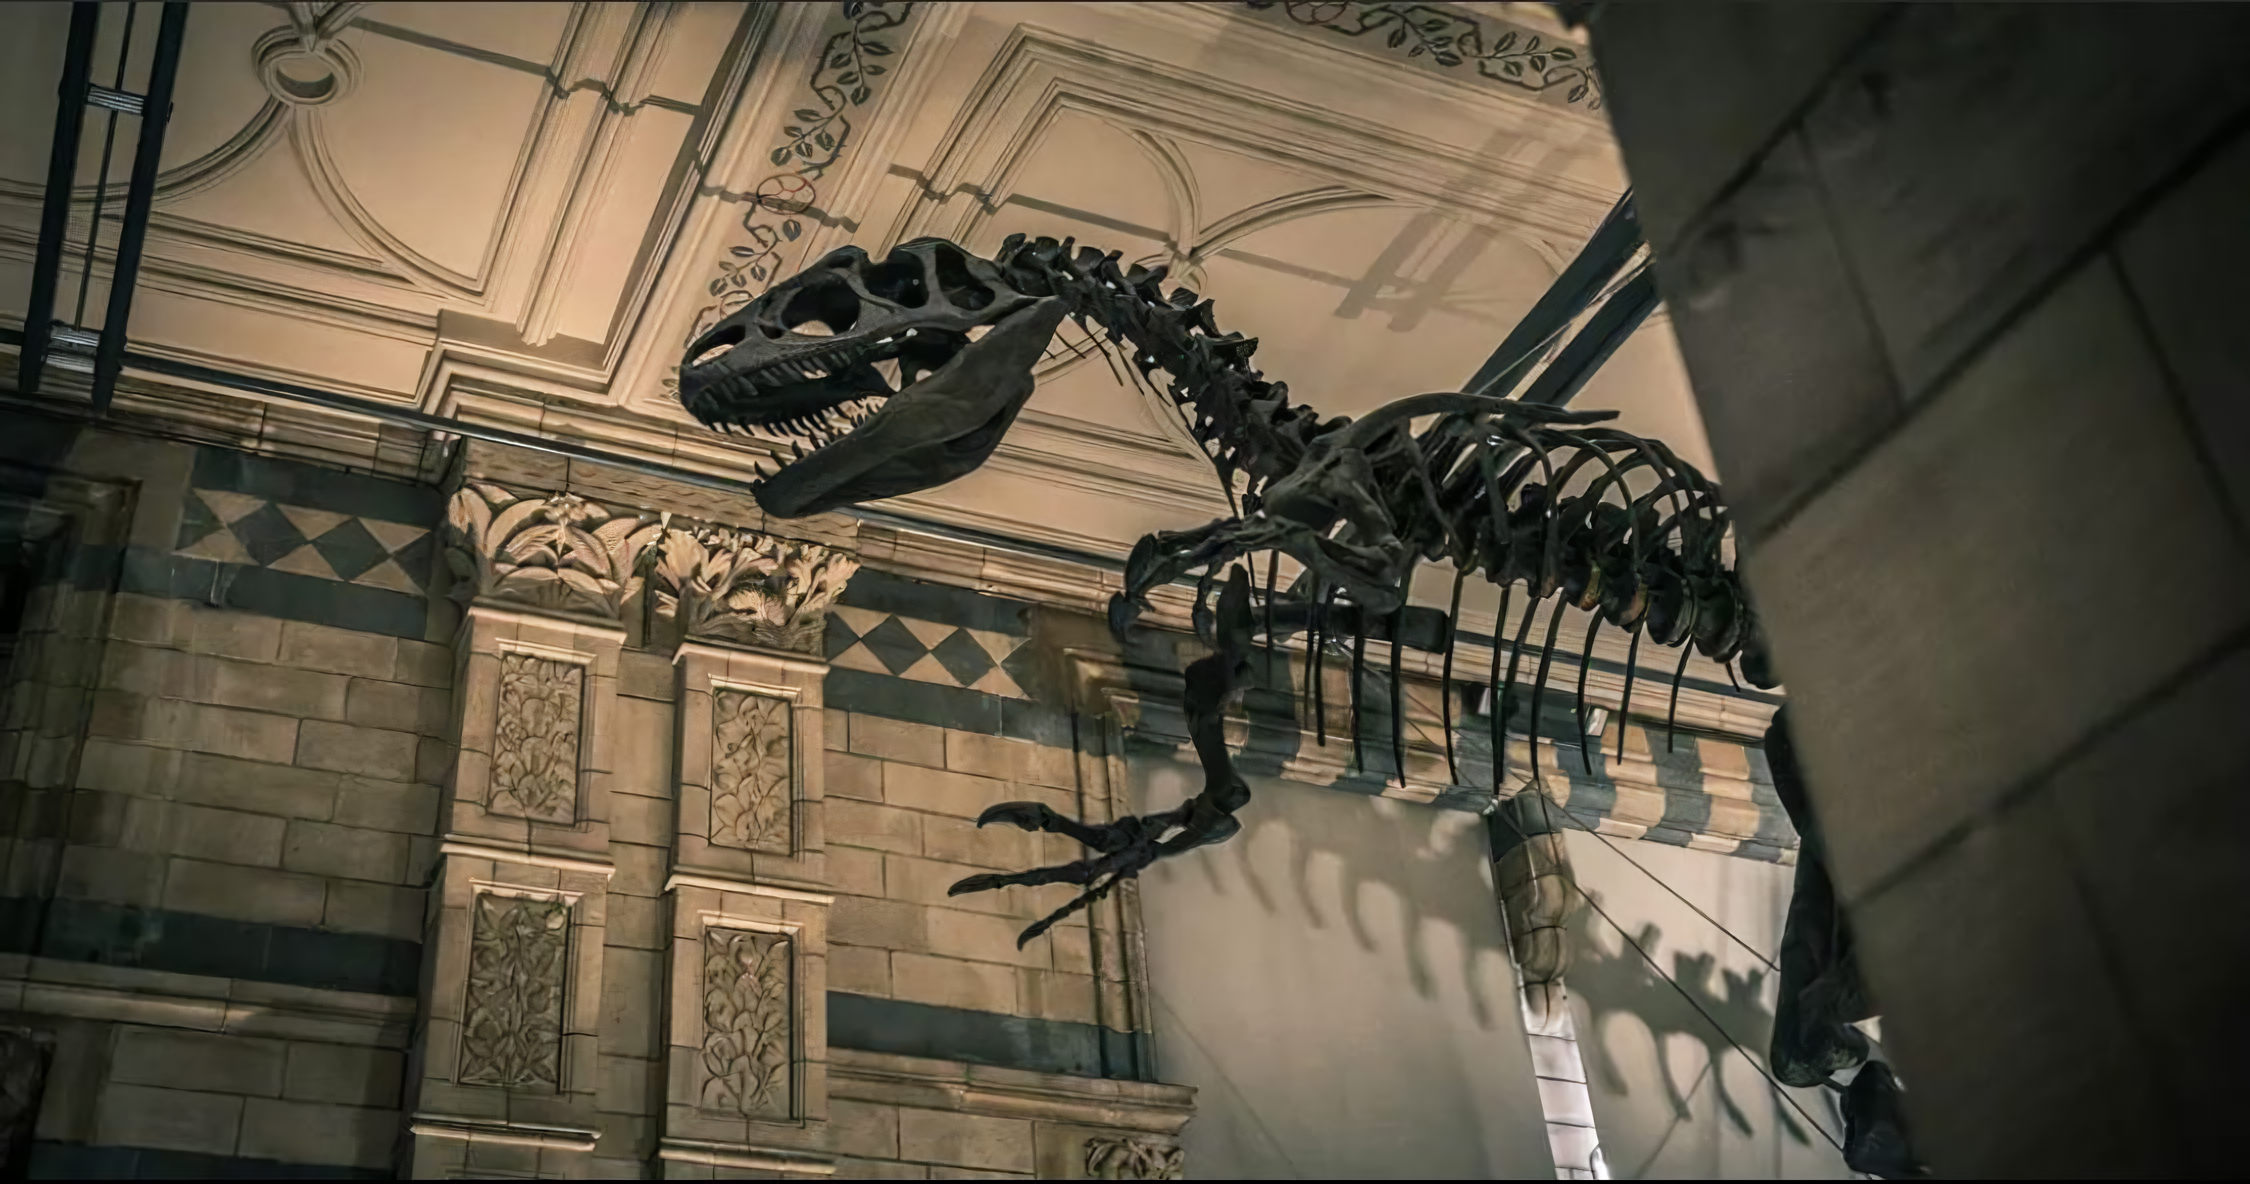
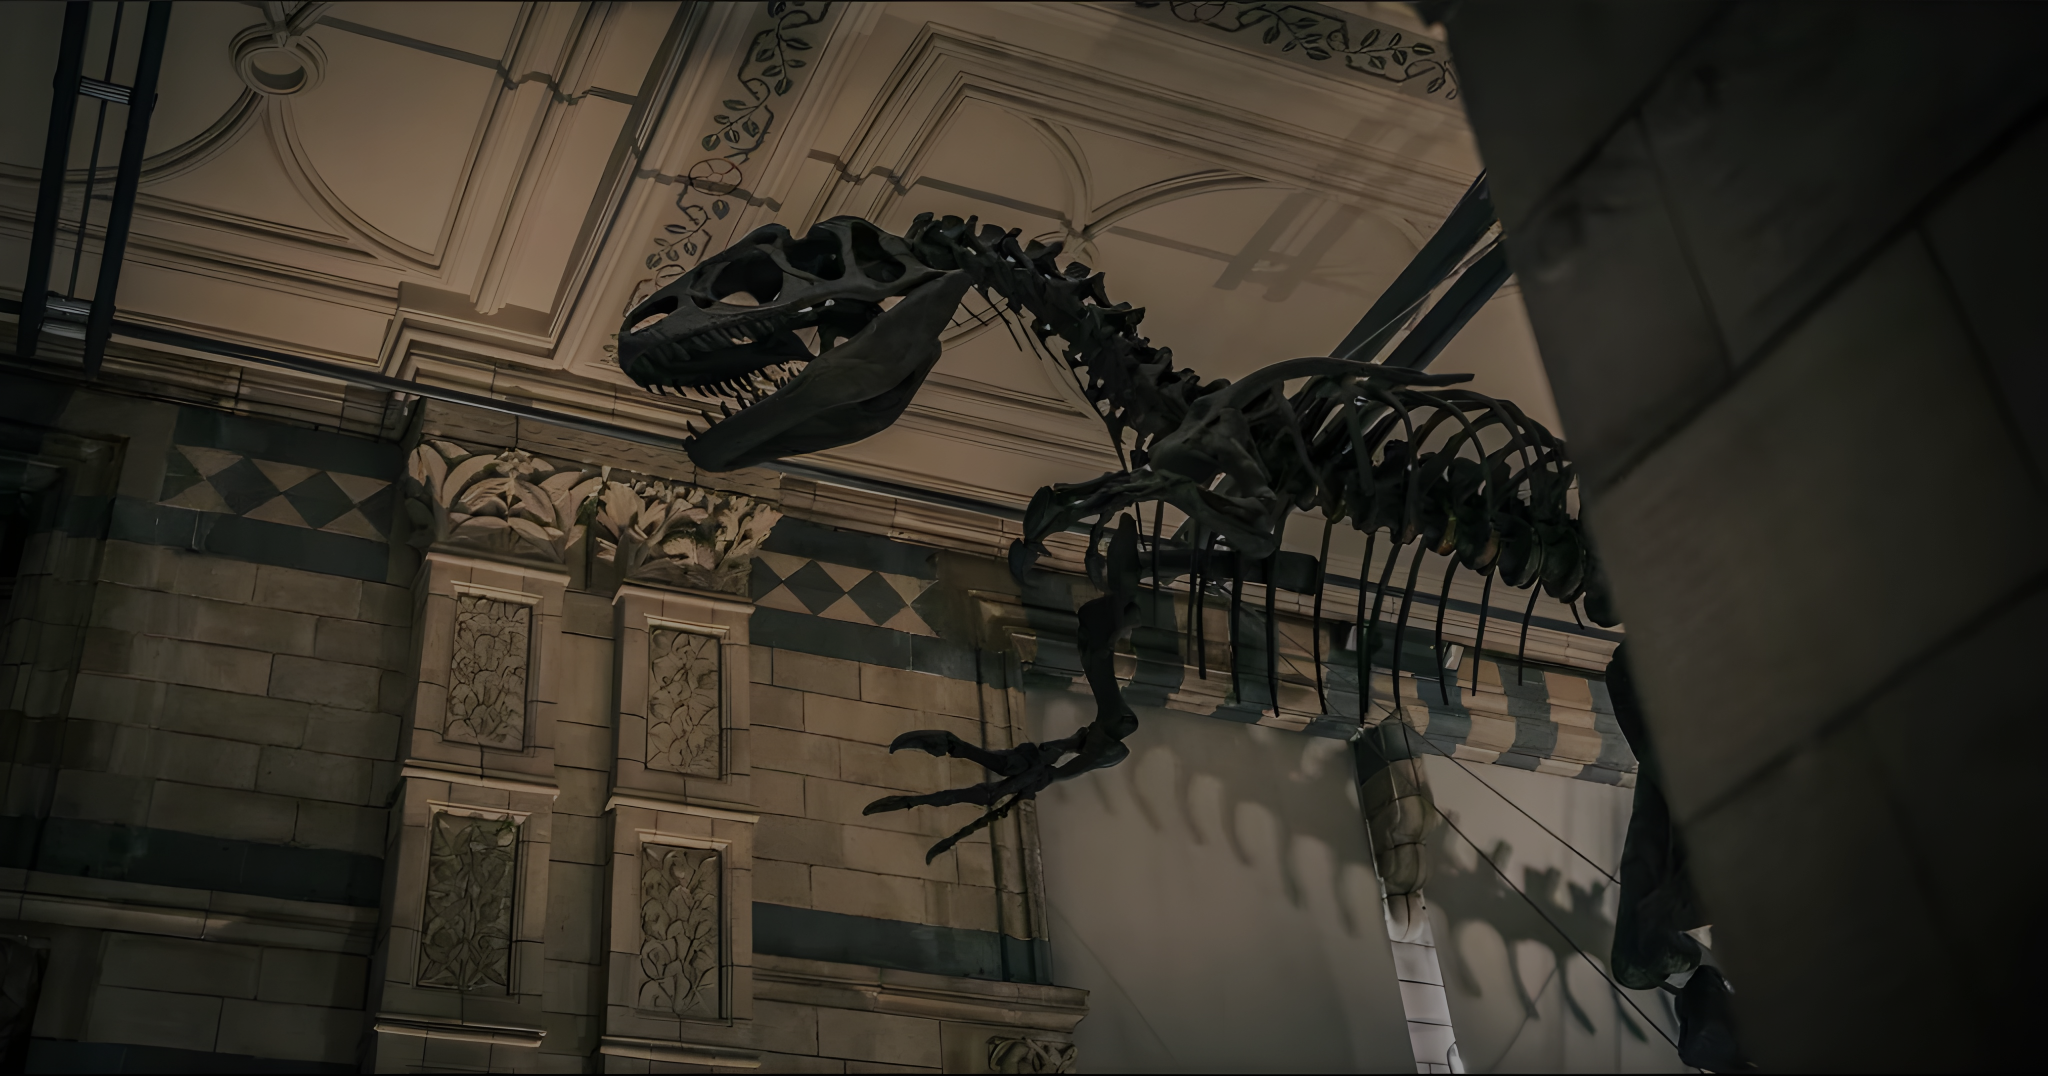
DE NOVOO

diff --git a/assents/css/style.css b/assents/css/style.css
@@ -1,6 +1,7 @@
 body{
     margin: 0;
     padding: 0;
+    background-color: black;
     .cabeçalho{
         display: flex;
         position: fixed;
@@ -14,30 +15,170 @@ body{
             padding-top: 30px;
             margin: 10px;
         }
+        a:hover{
+            text-decoration: underline;
+        }
         p{
             width: 80%;
             font-size: 30px;
+        }
+        p:hover{
+            text-shadow: 0 0 10px white;
         }
     }
     .imagem-primária{
         background-image: url(../img/imagem-primaria.png);
         background-repeat: no-repeat;
-        padding: 8.8%;
+        background-size: cover;
+        width: 100%;
+        height: 100vh;
+        display: flex;
+        .itens-primarios{
+            padding-top: 400px;
+            padding-left: 100px;
             p{
+                padding-bottom: 10px;
+                margin: 0;
                 color: white;
-                padding-bottom: 100px;
             }
             h1{
-                color: green;
+                padding-bottom: 20px;
+                margin: 0;
+                font-size: 60px;
+                color: white;
             }
             button{
-                background-color: rgb(71, 71, 71, 0.8);
-                border: none;
+                padding: 20px;
+                padding-left: 70px;
+                padding-right: 70px;
+                text-align: center;
+                background-color: rgba(0, 0, 0, 0.8);
+                border: 2px black solid;
+                color: white;
+                border-radius: 10px;
+                transition: 300ms cubic-bezier(0.48,0,0.12,1);
+                cursor: pointer;
             }
             button:hover{
-                background-color: black;
-                color: white;
+                background-color: rgb(255, 255, 255);
+                color: rgb(0, 0, 0);
                 border: 2px burlywood solid;
             }
+        }
+    }
+    .informações{
+        background-color: black;
+        color: white;
+        display: flex;
+        justify-content: center;
+        margin: 0;
+        padding-top: 15px;
+        padding-bottom: 15px;
+        text-align: center;
+        .informação-1{
+            padding-right: 200px;
+        }
+        .informação-2{
+            padding-left: 200px;
+            padding-right: 200px;
+            border-left: 1px rgba(255, 255, 255, 0.6) solid;
+            border-right: 1px rgba(255, 255, 255, 0.6) solid;
+        }
+        .informação-3{
+            padding-left: 200px;
+        }
+    }
+    .painel-alunos1{
+        background-color: black;
+        color: white;
+        display: flex;
+        justify-content: center;
+        text-align: center;
+        padding-top: 40px;
+        .enzo{
+            margin: 10px;
+            padding-right: 150px;
+            h1{
+                margin: 0;
+            }
+            p{
+                margin: 10px;
+            }
+            img{
+                border-radius: 20px;
+            }
+        }
+        .filipe{
+            margin: 10px;
+            padding-left: 150px;
+            h1{
+                margin: 0;
+            }
+            p{
+                margin: 10px;
+            }
+            img{
+                border-radius: 20px;
+            }
+        }
+    }
+    .painel-alunos2{
+    background-color: black;
+    color: white;
+    display: flex;
+    justify-content: center;
+    text-align: center;
+    padding-bottom: 20px;
+    .iago{
+        margin: 10px;
+        padding-right: 150px;
+            h1{
+                margin: 0;
+            }
+            p{
+                margin: 10px;
+            }
+            img{
+                border-radius: 20px;
+            }
+    }
+    .marco{
+        margin: 10px;
+        padding-left: 150px;
+            h1{
+                margin: 0;
+            }
+            p{
+                margin: 10px;
+            }
+            img{
+                border-radius: 20px;
+            }
+    }
+    }
+    .imagem-secundária{
+        background-image: url(../img/imagem-secundaria.png);
+        width: 100%;
+        height: 100vh;
+        background-size: cover;
+    }
+    .rodapé{
+        text-align: center;
+        justify-content: center;
+        display: flex;
+        background-color: black;
+        color: rgb(174, 174, 174);
+        p{
+            justify-content: center;
+            font-size: 13px;
+            margin: 20px;
+        }
+    }
+    .divisao{
+        background-image: url(../img/divisao.jpg);
+        width: 100%;
+        height: 40vh;
+        background-size: cover;
+        opacity: 0.3;
     }
 }

diff --git a/index.html b/index.html
@@ -12,52 +12,57 @@
         <a href="">Professor</a>
     </div>
     <div class="imagem-primária">
+        <div class="itens-primarios">
           <h1>Acesse o Mundo Jurássico<br>sem sair de casa!</h1>
           <p>Clique no botão abaixo para entrar</p>
           <button>Começar</button>
+        </div>
     </div>
     <div class="informações">
         <div class="informação-1">
-            <h1>Titulo</h1>
-            <p>Paragrafo</p>
+            <h1>Grátis</h1>
+            <p>Conheça vários Dinossauros<br>de forma gratuita.</p>
         </div>
         <div class="informação-2">
-            <h1>Titulo</h1>
-            <p>Paragrafo</p>
+            <h1>Online</h1>
+            <p>Expência completa no<br>conforto de sua casa</p>
         </div>
         <div class="informação-3">
-            <h1>Titulo</h1>
-            <p>Paragrafo</p>
+            <h1>Open-source</h1>
+            <p>Transparência e respeito<br>com o usuário</p>
         </div>
     </div>
-    <div class="painel-alunos">
+    <div class="divisao"></div>
+    <div class="painel-alunos1">
         <div class="enzo">
-            <img src="" alt="">
-            <h1>Aluno</h1>
-            <p>Trabalho</p>
+            <img src="assents/img/enzo.jpeg" alt="" height="300px" width="300px">
+            <h1>Enzo Ricardo</h1>
+            <p>Ajudou no design e na estruturação</p><hr>
         </div>
         <div class="filipe">
-            <img src="" alt="">
-            <h1>Aluno</h1>
-            <p>Trabalho</p>
+            <img src="assents/img/filipe.png" alt="" height="300px" width="300px">
+            <h1>Filipe Andrade</h1>
+            <p>Ajudou no código e nas imagens</p><hr>
         </div>
+        </div>
+        <div class="painel-alunos2">
         <div class="iago">
-            <img src="" alt="">
-            <h1>Aluno</h1>
-            <p>Trabalho</p>
+            <img src="assents/img/iago.jpg" alt="" height="300px" width="300px">
+            <h1>Iago Nóbrega</h1>
+            <p>Ajudou nas ideias e nas imagens</p><hr>
         </div>
         <div class="marco">
-            <img src="" alt="">
-            <h1>Aluno</h1>
-            <p>Trabalho</p>
+            <img src="assents/img/marco.jpeg" alt="" height="300px" width="300px">
+            <h1>Marco Antônio</h1>
+            <p>Ajudou no código e na organização</p><hr>
+        </div>
         </div>
     </div>
     <div class="imagem-secundária">
-        <img src="" alt="">
     </div>
     <div class="rodapé">
         <footer>
-            <p>Lorem ipsum dolor sit amet consectetur, adipisicing elit. Non fugiat dignissimos numquam, laudantium fugit tempora! Sed cum quasi hic modi, perspiciatis ipsa repellat quis ratione sunt, alias quibusdam vitae provident.</p>
+            <p>Este software é licenciado sob a MIT License. Você tem permissão para usá-lo, modificá-lo e distribuí-lo livremente, inclusive para fins comerciais, desde que mantenha os créditos originais de Marco Antônio<br>Carvalho. O software é fornecido "como está", sem garantias de qualquer tipo e sem responsabilidade do autor por danos decorrentes de seu uso.</p>
         </footer>
     </div>
 </body>